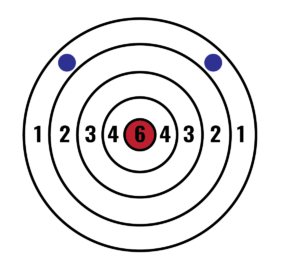
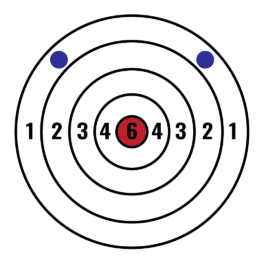
Deleted pictures. Created lightbox javascript feature. Edited some layouts and markdown pages.

Changed region(s): [[0.0304, 0.0303, 0.9734, 0.9697]]

diff --git a/source/templates/header.html b/source/templates/header.html
@@ -2,7 +2,7 @@
     <nav>
       <ul>
         <li>
-          <a {% if file.frontMatter.title=='Axe Throwing - Home' %} class='active' {% endif %} href="index.html">Home</a>
+          <a {% if file.frontMatter.title=='Axe Throwing - Home' %} class='active' {% endif %} href="index.html">International Axe Throwing</a>
         <li>
           <a {% if file.frontMatter.title=='Axe Throwing - Rules' %} class='active' {% endif %} href="rules.html">Rules</a>
         </li>

diff --git a/source/scss/styles.scss b/source/scss/styles.scss
@@ -130,5 +130,18 @@ td:nth-of-type(3) {
 
 img {
 
-    width: 15%;
+    width: 25%;
+}
+
+.lightbox {
+
+    position: fixed;
+    top: 0;
+    left: 0;
+    z-index: 1;
+    background-color: rgba($color: #000000, $alpha: 0.5);
+    background-size: 100% 100%; 
+    width: 100%;
+    height: 100%;
+
 }

diff --git a/source/templates/layout.html b/source/templates/layout.html
@@ -5,6 +5,7 @@
   <meta charset="UTF-8" />
   <meta name="viewport" content="width=device-width, initial-scale=1">
   <title>{{file.frontMatter.title}}</title>
+  <script src="ui/main.js" defer></script>
   <link href="ui/styles.css" rel="stylesheet" />
 </head>
 

diff --git a/source/js/main.ts b/source/js/main.ts
@@ -1,0 +1,6 @@
+let imgLightbox = <HTMLElement>document.body.querySelector("img");
+
+imgLightbox.addEventListener("click", function() {
+
+    imgLightbox.classList.toggle("lightbox");
+});

diff --git a/source/pages/upcoming.md b/source/pages/upcoming.md
@@ -15,10 +15,6 @@ template: page
 |2020 Canadian Open  | TBD in March | TBD | TBD |
 
 
-![World Axe Throwing Championship](images/wcat.png)
-![Axe Throwing U.S Open](images/usopen.png)
-![Throw Down Axe Festival](images/tdaf.png)
-![South American Arnold Open](images/saao.png)
-![Canadian Open](images/co.png)
+![World Axe Throwing League](images/watl.png)
 
 
